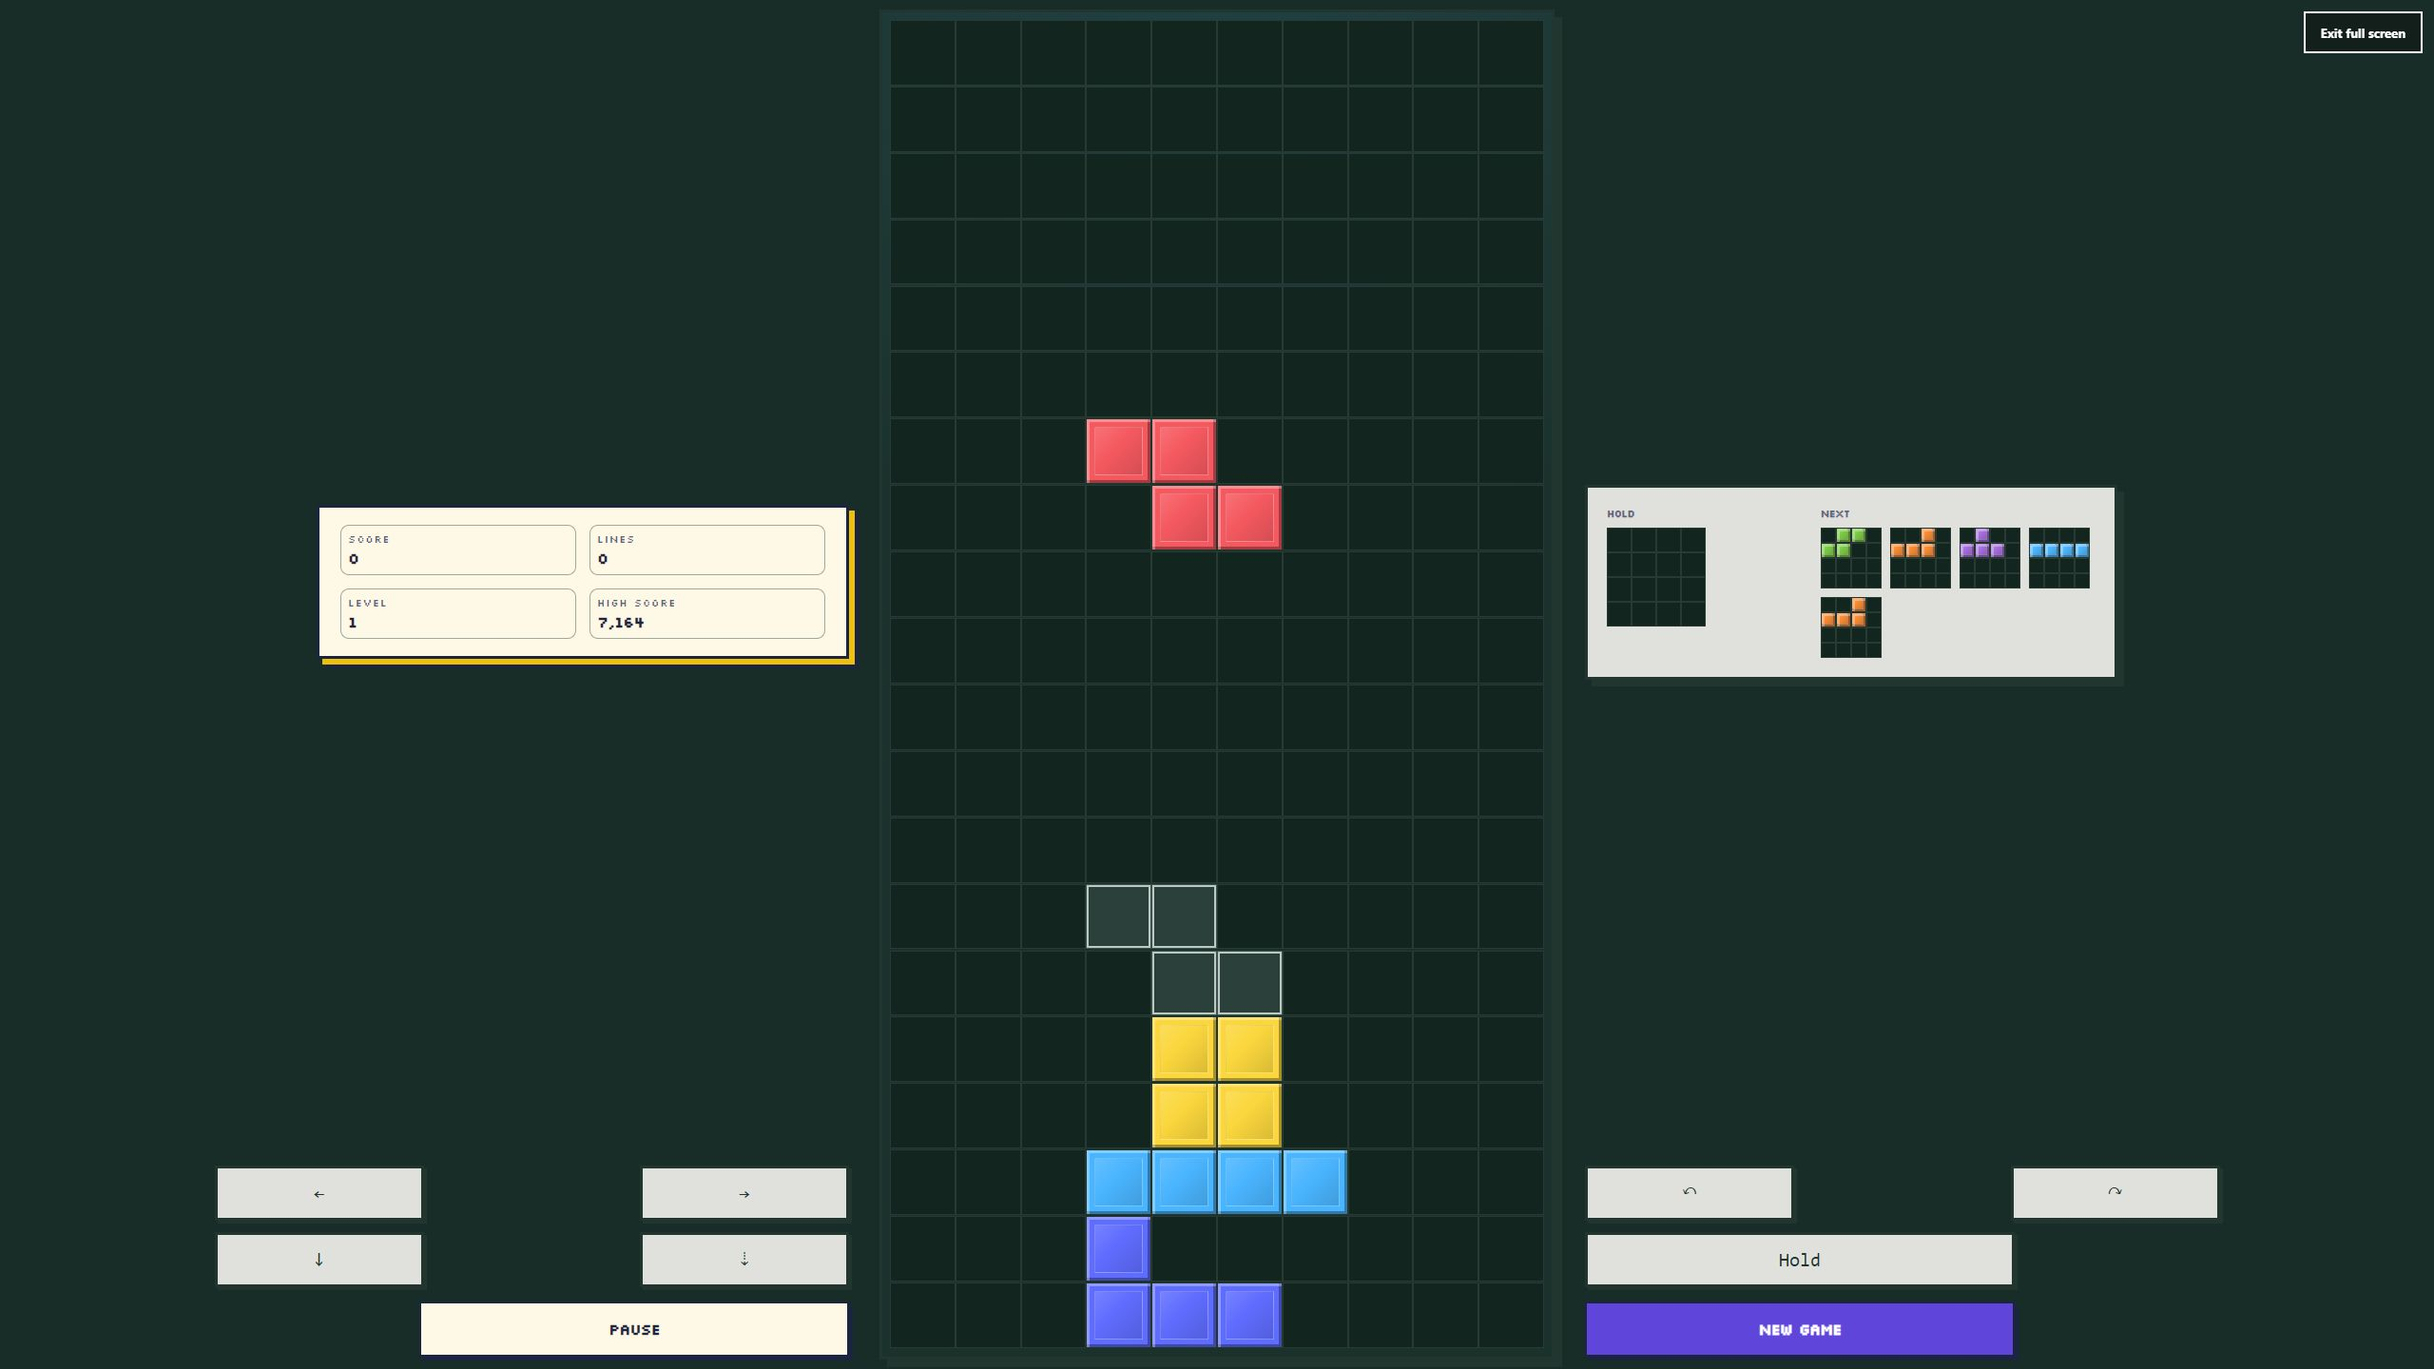
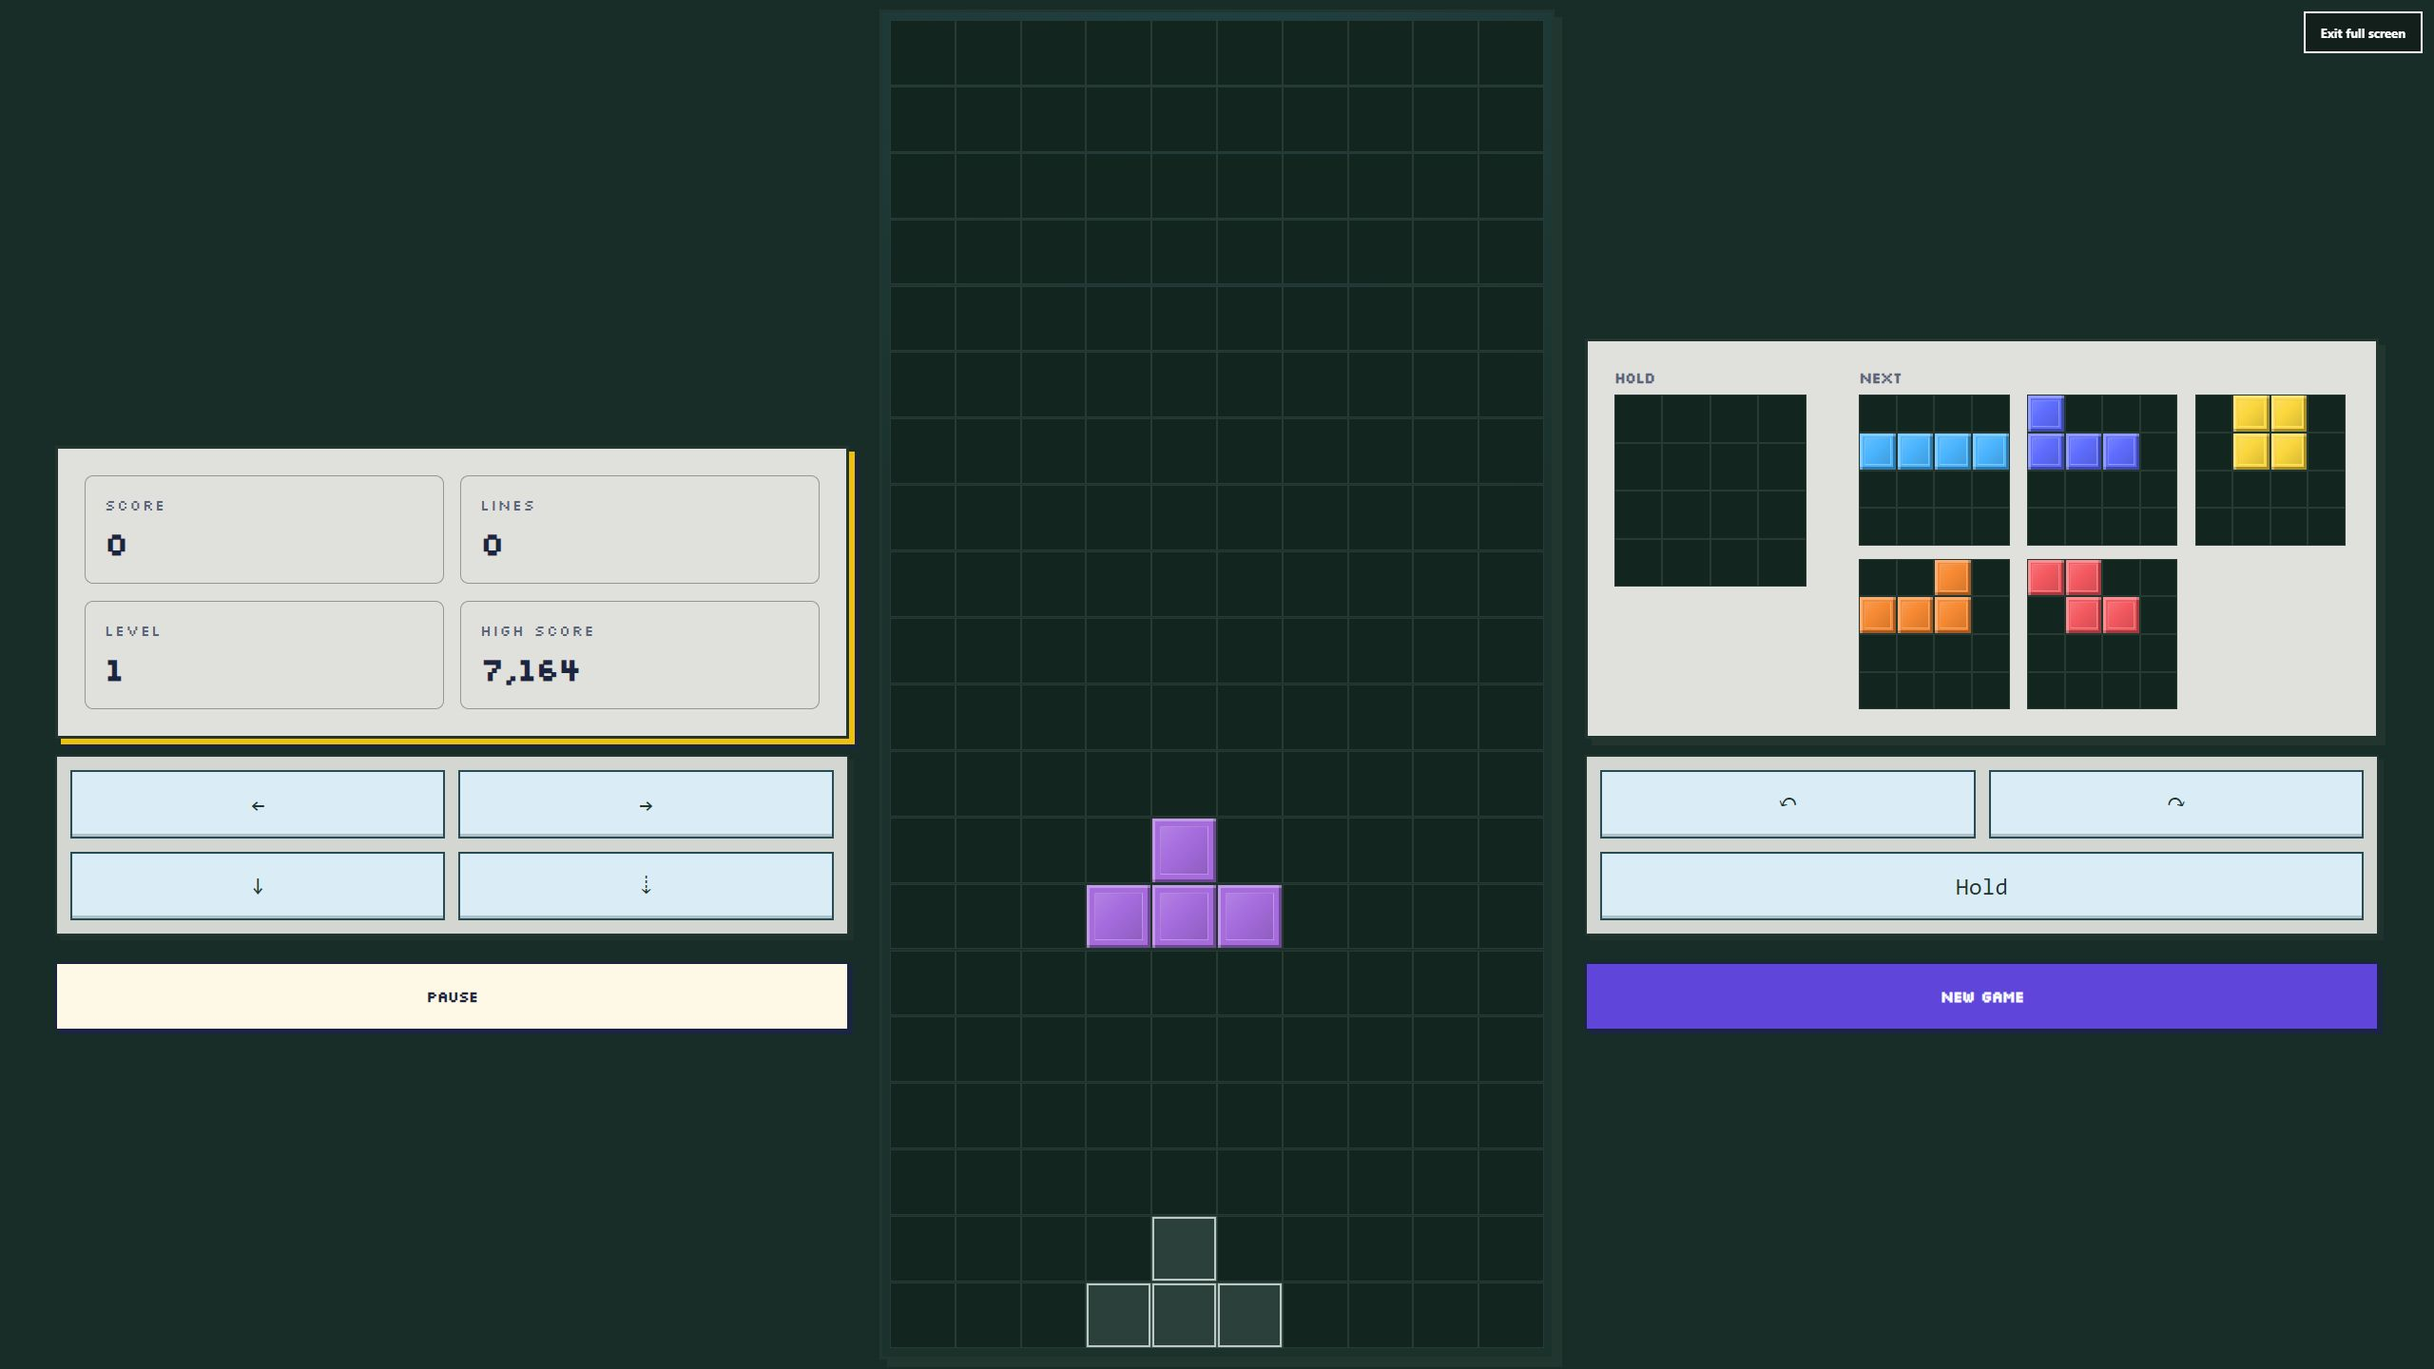
Refine Tetris fullscreen side decks

diff --git a/tetris/styles.css b/tetris/styles.css
@@ -48,3 +48,45 @@
 @media (orientation:portrait){.game-tetris .game-layout.game-layout:fullscreen,.game-tetris .game-layout.game-layout.is-fullscreen{grid-template-columns:1fr;grid-template-rows:minmax(0,1fr) auto;gap:8px}.game-tetris .game-layout:fullscreen .tetris-stage,.game-tetris .game-layout.is-fullscreen .tetris-stage{width:min(100%,calc((100dvh - 240px - env(safe-area-inset-top) - env(safe-area-inset-bottom))/2))}.game-tetris .game-layout:fullscreen .tetris-controls,.game-tetris .game-layout.is-fullscreen .tetris-controls{width:100%;max-height:220px;padding:8px}.game-layout:fullscreen .instructions,.game-layout.is-fullscreen .instructions{display:none}}
 @media(max-width:780px){.game-tetris .touch-controls button{min-height:44px}}
 .game-tetris .game-layout:fullscreen .touch-controls button,.game-tetris .game-layout.is-fullscreen .touch-controls button{color:var(--tetris-ink);background:var(--tetris-panel);border:3px solid var(--tetris-border);box-shadow:3px 3px 0 var(--tetris-shadow)}
+
+/* Group related commands and let the groups become the full-screen side decks. */
+.game-tetris .control-cluster{display:contents}
+@media (orientation:landscape){
+    .game-tetris .game-layout.game-layout:fullscreen,.game-tetris .game-layout.game-layout.is-fullscreen{--tetris-fullscreen-rail:min(100%,58vmin);grid-template-rows:minmax(0,1fr) auto auto auto minmax(0,1fr);row-gap:clamp(8px,1.2vmin,18px)}
+    .game-tetris .game-layout:fullscreen .touch-controls,.game-tetris .game-layout.is-fullscreen .touch-controls{display:contents}
+    .game-tetris .game-layout:fullscreen .control-cluster,.game-tetris .game-layout.is-fullscreen .control-cluster{box-sizing:border-box;display:grid;width:var(--tetris-fullscreen-rail);grid-template-columns:repeat(2,minmax(0,1fr));gap:clamp(7px,1vmin,14px);padding:clamp(7px,1vmin,14px);background:color-mix(in srgb,var(--tetris-panel) 94%,transparent);border:2px solid var(--tetris-border);border-radius:16px;box-shadow:5px 5px 0 color-mix(in srgb,var(--tetris-shadow) 72%,transparent)}
+    .game-tetris .game-layout:fullscreen .movement-controls,.game-tetris .game-layout.is-fullscreen .movement-controls{grid-column:1;grid-row:3;justify-self:end}
+    .game-tetris .game-layout:fullscreen .piece-controls,.game-tetris .game-layout.is-fullscreen .piece-controls{grid-column:3;grid-row:3;justify-self:start}
+    .game-tetris .game-layout:fullscreen .control-cluster button,.game-tetris .game-layout.is-fullscreen .control-cluster button{grid-column:auto;grid-row:auto;justify-self:stretch}
+    .game-tetris .game-layout:fullscreen .piece-controls button:last-child,.game-tetris .game-layout.is-fullscreen .piece-controls button:last-child{grid-column:1/-1}
+    .game-tetris .game-layout:fullscreen .touch-controls button,.game-tetris .game-layout.is-fullscreen .touch-controls button{width:100%;min-height:clamp(48px,5vmin,72px);padding:8px;color:var(--tetris-ink);background:color-mix(in srgb,var(--tetris-panel) 84%,var(--tetris-i));border:2px solid color-mix(in srgb,var(--tetris-border) 82%,var(--tetris-i));border-radius:10px;box-shadow:inset 0 -3px 0 color-mix(in srgb,var(--tetris-border) 24%,transparent);font-size:clamp(17px,2vmin,25px)}
+    .game-tetris .game-layout:fullscreen .touch-controls button:active,.game-tetris .game-layout.is-fullscreen .touch-controls button:active{box-shadow:inset 0 2px 0 color-mix(in srgb,var(--tetris-border) 24%,transparent);transform:translateY(2px)}
+    .game-tetris .game-layout:fullscreen .stats,.game-tetris .game-layout.is-fullscreen .stats,.game-tetris .game-layout:fullscreen .piece-panels,.game-tetris .game-layout.is-fullscreen .piece-panels{width:var(--tetris-fullscreen-rail)}
+    .game-tetris .game-layout:fullscreen .stats,.game-tetris .game-layout.is-fullscreen .stats{grid-row:2;align-self:end;justify-self:end;gap:clamp(8px,1.2vmin,18px);padding:clamp(16px,2vmin,28px);background:var(--tetris-panel);border:3px solid var(--tetris-border);box-shadow:7px 7px 0 var(--tetris-shadow)}
+    .game-tetris .game-layout:fullscreen .stats div,.game-tetris .game-layout.is-fullscreen .stats div{gap:clamp(4px,.6vmin,9px);padding:clamp(10px,1.4vmin,20px)}
+    .game-tetris .game-layout:fullscreen .stats span,.game-tetris .game-layout.is-fullscreen .stats span,.game-tetris .game-layout:fullscreen .piece-panels h2,.game-tetris .game-layout.is-fullscreen .piece-panels h2{font-size:clamp(11px,1.15vmin,16px)}
+    .game-tetris .game-layout:fullscreen .stats strong,.game-tetris .game-layout.is-fullscreen .stats strong{font-size:clamp(20px,2.4vmin,34px)}
+    .game-tetris .game-layout:fullscreen .piece-panels,.game-tetris .game-layout.is-fullscreen .piece-panels{grid-row:2;grid-template-columns:minmax(0,1fr) minmax(0,2.25fr);align-self:end;justify-self:start;gap:clamp(16px,2vmin,28px);padding:clamp(16px,2vmin,28px)}
+    .game-tetris .game-layout:fullscreen .mini-board,.game-tetris .game-layout.is-fullscreen .mini-board{width:min(100%,14vmin)}
+    .game-tetris .game-layout:fullscreen .next-list,.game-tetris .game-layout.is-fullscreen .next-list{display:grid;grid-template-columns:repeat(3,minmax(0,1fr));gap:clamp(7px,1vmin,14px)}
+    .game-tetris .game-layout:fullscreen .next-list .mini-board,.game-tetris .game-layout.is-fullscreen .next-list .mini-board{width:min(100%,11vmin)}
+    .game-tetris .game-layout:fullscreen .control-actions,.game-tetris .game-layout.is-fullscreen .control-actions{display:contents}
+    .game-tetris .game-layout:fullscreen .control-actions button,.game-tetris .game-layout.is-fullscreen .control-actions button{box-sizing:border-box;width:var(--tetris-fullscreen-rail);min-height:clamp(48px,5vmin,72px);margin-top:clamp(5px,.8vmin,10px)}
+    .game-tetris .game-layout:fullscreen .control-actions button:first-child,.game-tetris .game-layout.is-fullscreen .control-actions button:first-child{grid-column:1;grid-row:4;justify-self:end}
+    .game-tetris .game-layout:fullscreen .control-actions button:last-child,.game-tetris .game-layout.is-fullscreen .control-actions button:last-child{grid-column:3;grid-row:4;justify-self:start}
+    :is([data-arcade-theme="playful"],[data-arcade-theme="cabinet"]) .game-tetris .game-layout:fullscreen :is(.control-cluster,.touch-controls button),:is([data-arcade-theme="playful"],[data-arcade-theme="cabinet"]) .game-tetris .game-layout.is-fullscreen :is(.control-cluster,.touch-controls button){border-radius:0}
+}
+@media (orientation:landscape) and (max-height:620px){
+    .game-tetris .game-layout.game-layout:fullscreen,.game-tetris .game-layout.game-layout.is-fullscreen{--tetris-fullscreen-rail:100%;grid-template-rows:minmax(0,1fr) auto 93px 48px minmax(0,1fr);row-gap:5px}
+    .game-tetris .game-layout:fullscreen .stats,.game-tetris .game-layout.is-fullscreen .stats{align-self:start;gap:5px;padding:10px}
+    .game-tetris .game-layout:fullscreen .stats div,.game-tetris .game-layout.is-fullscreen .stats div{gap:1px;padding:4px}
+    .game-tetris .game-layout:fullscreen .stats span,.game-tetris .game-layout.is-fullscreen .stats span,.game-tetris .game-layout:fullscreen .piece-panels h2,.game-tetris .game-layout.is-fullscreen .piece-panels h2{font-size:9px}
+    .game-tetris .game-layout:fullscreen .stats strong,.game-tetris .game-layout.is-fullscreen .stats strong{font-size:12px}
+    .game-tetris .game-layout:fullscreen .piece-panels,.game-tetris .game-layout.is-fullscreen .piece-panels{align-self:start;gap:8px;padding:10px}
+    .game-tetris .game-layout:fullscreen .mini-board,.game-tetris .game-layout.is-fullscreen .mini-board{width:min(62px,100%)}
+    .game-tetris .game-layout:fullscreen .next-list,.game-tetris .game-layout.is-fullscreen .next-list{gap:4px}
+    .game-tetris .game-layout:fullscreen .next-list .mini-board,.game-tetris .game-layout.is-fullscreen .next-list .mini-board{width:min(48px,100%)}
+    .game-tetris .game-layout:fullscreen .control-cluster,.game-tetris .game-layout.is-fullscreen .control-cluster{gap:5px;padding:5px;border-width:2px;box-shadow:3px 3px 0 color-mix(in srgb,var(--tetris-shadow) 72%,transparent)}
+    .game-tetris .game-layout:fullscreen .touch-controls button,.game-tetris .game-layout.is-fullscreen .touch-controls button{min-height:39px;padding:4px;font-size:15px}
+    .game-tetris .game-layout:fullscreen .control-actions button,.game-tetris .game-layout.is-fullscreen .control-actions button{min-height:44px;margin-top:0}
+}

diff --git a/tetris/index.html b/tetris/index.html
@@ -36,7 +36,7 @@
             <div class="stats" aria-label="Game statistics"><div><span>Score</span><strong id="score">0</strong></div><div><span>Lines</span><strong id="lines">0</strong></div><div><span>Level</span><strong id="level">1</strong></div><div class="best-stat"><span>High score</span><strong id="best">0</strong></div></div>
             <div id="status" class="status" role="status" aria-live="polite">Use the controls to place the falling piece.</div>
             <div class="piece-panels"><section><h2>Hold</h2><div id="hold" class="mini-board" aria-label="Held piece"></div></section><section><h2>Next</h2><div id="next" class="next-list" aria-label="Next pieces"></div></section></div>
-            <div class="touch-controls" aria-label="Tetris controls"><button type="button" data-action="left" aria-label="Move left">←</button><button type="button" data-action="right" aria-label="Move right">→</button><button type="button" data-action="rotate-left" aria-label="Rotate counterclockwise">↶</button><button type="button" data-action="rotate-right" aria-label="Rotate clockwise">↷</button><button type="button" data-action="soft" aria-label="Soft drop">↓</button><button type="button" data-action="hard" aria-label="Hard drop">⇣</button><button type="button" data-action="hold" aria-label="Hold piece">Hold</button></div>
+            <div class="touch-controls" aria-label="Tetris controls"><div class="control-cluster movement-controls" role="group" aria-label="Movement and drop controls"><button type="button" data-action="left" aria-label="Move left">←</button><button type="button" data-action="right" aria-label="Move right">→</button><button type="button" data-action="soft" aria-label="Soft drop">↓</button><button type="button" data-action="hard" aria-label="Hard drop">⇣</button></div><div class="control-cluster piece-controls" role="group" aria-label="Rotation and hold controls"><button type="button" data-action="rotate-left" aria-label="Rotate counterclockwise">↶</button><button type="button" data-action="rotate-right" aria-label="Rotate clockwise">↷</button><button type="button" data-action="hold" aria-label="Hold piece">Hold</button></div></div>
             <div class="control-actions"><button class="secondary-button" id="pause" type="button">Pause</button><button class="primary-button" id="new-game" type="button">New game</button></div>
             <p class="instructions">Arrows move · Space hard drops · Z/X rotate · C or Shift holds · S uses shake · P pauses</p>
         </aside>

diff --git a/tests/tetris.test.js b/tests/tetris.test.js
@@ -155,11 +155,16 @@ test('Tetris offers a safe-area-aware full-screen board and command deck', () =>
     assert.match(styles, /game-layout:fullscreen \.stats[^}]*grid-column:1[^}]*grid-row:1/);
     assert.match(styles, /game-layout:fullscreen \.piece-panels[^}]*grid-column:3[^}]*grid-row:1/);
     assert.match(styles, /tetris-controls[^}]*display:contents/);
-    assert.match(styles, /touch-controls button:nth-child\(1\)[^}]*grid-column:1/);
-    assert.match(styles, /touch-controls button:nth-child\(3\)[^}]*grid-column:4/);
-    assert.match(styles, /touch-controls button:nth-child\(7\)[^}]*grid-column:4\/6/);
+    assert.match(page, /class="control-cluster movement-controls"[^>]*aria-label="Movement and drop controls"/);
+    assert.match(page, /class="control-cluster piece-controls"[^>]*aria-label="Rotation and hold controls"/);
+    assert.match(styles, /--tetris-fullscreen-rail:min\(100%,58vmin\)/);
+    assert.match(styles, /movement-controls[^}]*grid-column:1[^}]*grid-row:3/);
+    assert.match(styles, /piece-controls[^}]*grid-column:3[^}]*grid-row:3/);
+    assert.match(styles, /piece-controls button:last-child[^}]*grid-column:1\/-1/);
+    assert.match(styles, /game-layout:fullscreen \.mini-board[^}]*14vmin/);
+    assert.match(styles, /next-list \.mini-board[^}]*11vmin/);
     assert.match(styles, /touch-controls button[^}]*min-height:44px/);
-    assert.match(styles, /game-layout:fullscreen \.touch-controls button[^}]*background:var\(--tetris-panel\)/);
+    assert.match(styles, /game-layout:fullscreen \.touch-controls button[^}]*background:color-mix\([^}]*var\(--tetris-i\)/);
     assert.match(styles, /topbar-actions \.icon-button\{[^}]*min-width:44px;min-height:44px/);
 });
 

diff --git a/docs/tetris.md b/docs/tetris.md
@@ -44,11 +44,12 @@ fit together without hiding the status information.
 ## Full screen
 
 Full screen keeps the 10×20 board centered at its correct proportions. Score
-and progress sit to its left, hold and next pieces sit to its right, and touch
-actions are split between both sides so either thumb can reach the common
-controls. Pause and restart remain available without covering the board. The
-layout uses dynamic viewport and safe-area insets, with a CSS fallback for
-installed browsers that cannot use the native Fullscreen API.
+and progress sit to its left, hold and enlarged next-piece previews sit to its
+right, and both rails scale with the shorter viewport dimension instead of
+staying at their regular-page size. Related touch actions live in compact
+movement/drop and rotation/hold decks, with pause and restart directly beneath
+them. The layout uses dynamic viewport and safe-area insets, with a CSS fallback
+for installed browsers that cannot use the native Fullscreen API.
 
 ## Clears and high scores
 

diff --git a/docs/architecture.md b/docs/architecture.md
@@ -113,8 +113,9 @@ Tetris keeps mechanics independent from DOM presentation, submits bounded
 top-out aggregates for server-derived scoring, and consumes a scoped theme-token
 interface. At phone widths, the controller's board and status rail use an
 approximately 70/30 viewport-aware layout while the touch controls remain
-available. Full screen preserves and centers the portrait board, balancing a
-safe-area-aware status rail, preview rail, and split touch controls around it.
+available. Full screen preserves and centers the portrait board, balancing
+viewport-proportional status and preview rails with grouped touch-control decks
+around it.
 Line-clear and live-record celebrations are non-authoritative,
 non-blocking presentation driven by mechanics events and local best-score state.
 Random magic breakers and motion-assisted stack compaction are mechanics-owned,
